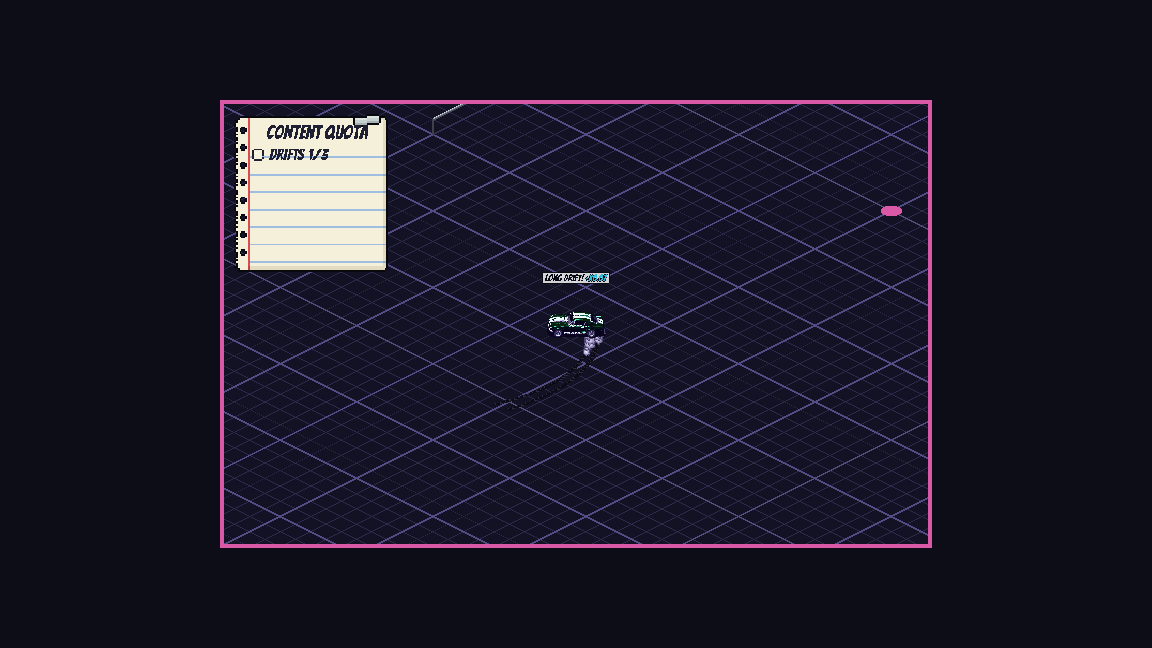
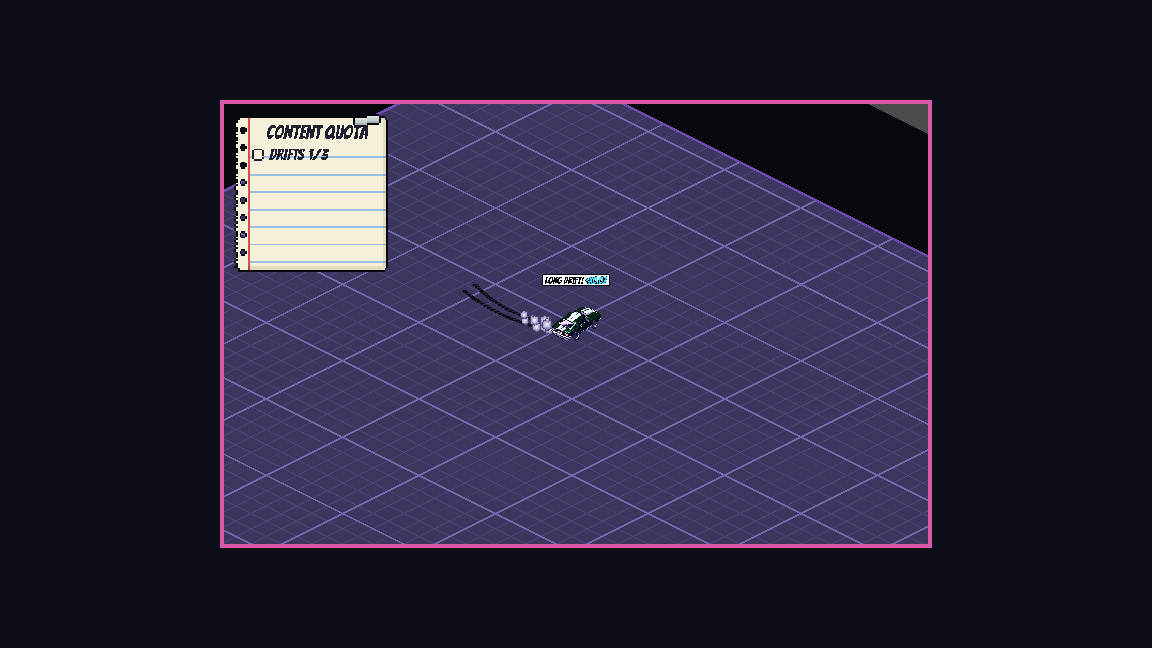
T-561: the practice session plays T-560's practice playground
PLAYGROUND_PATH points at data/level/practice_playground.json, start points by id
(LevelStartPoints), the level's own grid ground; the stand-in is removed. Tests drive all four
tricks on the real level; screenshots retaken.

Claude-Session: https://claude.ai/code/session_01N2d996YFpSovFyvGmo19CZ

diff --git a/game/docs/game-loop/practice-session.md b/game/docs/game-loop/practice-session.md
@@ -26,21 +26,21 @@ session.pause()                  # when the slide is left
 
 ## How it works
 
-- **The world** (`World` node) is built once from `layout_path` (`PLAYGROUND_PATH`): the map scene (`mvp_map.tscn`, no challenges, no alert signs) with its elevation layer (rooftops and ramps), the rails and their drawing, the car's shadow, and the car's drawing (`View`: the car sprite, drift smoke, boost, jump effect, rail sparks, the jump arrow, the trick popups and the camera), as `run.gd` builds them. A level with no painted `"ground"` hides the map's ground and draws `ground_grid.gd` under it, with the playground's edge outlined.
+- **The world** (`World` node) is built once from `layout_path` (`PLAYGROUND_PATH`): the map scene (`mvp_map.tscn`, no challenges, no alert signs) with its elevation layer (rooftops and ramps), the rails and their drawing, the car's shadow, and the car's drawing (`View`: the car sprite, drift smoke, boost, jump effect, rail sparks, the jump arrow, the trick popups and the camera), as `run.gd` builds them. The playground draws its own grid ground (its `"ground_style"`, T-560).
 - **Pausing** sets `World.process_mode` to disabled (which also takes the bodies out of the physics space, so a test steps the car only after `start()`). Never the tree's pause: the slide around the window keeps working.
 - **The combo:** a `RunState` (its process disabled, so the clock never runs and the run never ends) hears the car's tricks, airtime, grinds and crashes as in the run (`add_trick`, `add_airtime_trick`, `add_grind_trick`, `collision`); the trick popups follow it. Its own mission pack is unused.
 - **Counting:** `RunState.combo_trick` (what pays) is matched against `COUNTED[trick]`. Air spins count once per car step, so a landing that pays both an AIR 360! and an AIR 180! counts once. Each success calls the notebook tracker's `on_trick(GOAL_TRICK[trick])`.
 - **The notebook:** the real `MissionPage`, on its own `CanvasLayer` (layer 10), bound to a `RunMissions` started with `start_with([[{"trick": GOAL_TRICK[trick], "kind": "count", "amount": 3}]])`. Its goal line comes from the page's `goal_templates` (T-561), so the run's own mission texts are untouched. Scaled with `UiScale.keep(root, NOTEBOOK_BASE)`, 70% of the HUD's layout page, at `NOTEBOOK_POS`.
 - **The gift:** `PracticeOffers` (`scripts/run/practice_offers.gd`) is the real `PowerUpOffers` with two changes: it opens only through `offer_only(id)` (never from a mission) and pauses only the session (`pause_with`). The real `PowerUpScreen` shows it. `GIFT` says which practice opens with which power-up (the grind with Jump); it opens on the first `start()` after `setup`/`restart`.
-- **The car** is rebuilt by `reset_car()` (no drift, grind or jump left over) at `start_point()`: the level's `"practice_starts"[trick]` (`{x, y, heading}`, like `"spawn"`), else the level's spawn. Leaving the map's rectangle (plus `AREA_MARGIN`) resets it on the next frame.
+- **The car** is rebuilt by `reset_car()` (no drift, grind or jump left over) at `start_point()`: the level's start point with the trick's id (`LevelStartPoints.of(layout, trick)`: `drift`, `alt_drift`, `air_spin`, `grind`, T-560), else the level's spawn. Leaving the map's rectangle (plus `AREA_MARGIN`) resets it on the next frame.
 
-## Seams for T-560 (and T-559, now wired)
+## The level and the texts (T-560 and T-559, both wired)
 
-- **The playground (T-560):** `PLAYGROUND_PATH` is the stand-in `data/level/practice_stand_in.json` (a 100 x 100 square, a ramp up to a short rooftop, one rail at height 1, no painted ground) until T-560's level is in; then point it at that file. The start points are read from the level's `"practice_starts"` (`drift`, `alt_drift`, `air_spin`, `grind`), so T-560's level gives them there (or the session's `start_point()` is changed to where T-560 puts them).
+- **The playground (T-560, wired):** `PLAYGROUND_PATH` is `data/level/practice_playground.json` ([../level/practice-playground.md](../level/practice-playground.md)); each trick starts on its start point of the same id. The stand-in this ticket used before (`practice_stand_in.json`) is removed.
 - **The goal lines (T-559, wired):** `GOAL_TEXT_KEYS` reads each goal line from `data/tutorial_text.json`, `tutorial.goal.drift`, `.altdrift`, `.airspin` and `.grind` (T-559's keys), each a template with `{done}` and `{total}`, word for word. No player text is in the code: a missing key logs an error and gives an empty line.
 - **The falling box (T-563)** uses the same notebook: the goal's trick id is the car's own trick id (`extended_drift`, `alternate_drift`, `rail_grind`), except air spins, whose goal id is `air_spin` (two tricks); `trick_counted` gives the actual one.
 
 ## Tests and pictures
 
-- `tests/unit/run/test_practice_session.gd`: the scene (no enemies, clock or damage), the start points, counting for each trick and no other (and the third), a real drift and a real hop onto the rail, a real ramp takeoff, the notebook's line and count, the Jump gift, pause, focus, R and leaving the playground.
+- `tests/unit/run/test_practice_session.gd`: the scene (no enemies, clock or damage), the start points, counting for each trick and no other (and the third), on the real playground a drift, an alt drift, an air spin and a grind each driven from its own start point and counted, the notebook's line and count, the Jump gift, pause, focus, R and leaving the playground.
 - `tests/fixtures/practice_session_demo.tscn`: the session in a 704 x 440 window on a dark page; `PRACTICE_SHOT` = `drift`, `alt_drift`, `air_spin`, `grind_gift`, `grind` or `done`. `PRACTICE_SHOT=grind_gift bash game/tools/screenshot.sh res://tests/fixtures/practice_session_demo.tscn out.png 60`.

diff --git a/docs/game-loop-architecture.md b/docs/game-loop-architecture.md
@@ -238,10 +238,10 @@ The run keeps its missions and the car's driving power-ups (Decisions, "Mission 
 
 The engine of the tutorial's practice windows (HUD and menus, Decisions, "Interactive tutorial slides"; how to use it: [game/docs/game-loop/practice-session.md](../game/docs/game-loop/practice-session.md)). Each trick slide (T-562) embeds one in its window. It is a small live run with one goal, not a run: it is never part of the screen flow below and never ends.
 
-- **What is in it:** the practice playground (Level design, Decisions, "The practice playground"; until T-560's level is in, a stand-in with one ramp and one rail on the drift prototype's grid ground), the real car with its real driving, combo, trick popups, drift marks and smoke, and the real mission notebook inside the window. **Nothing else:** no enemies, kaiju, clock, damage, gift packs, weapons, HUD or sounds.
+- **What is in it:** the practice playground (Level design, Decisions, "The practice playground", T-560's level, on its grid ground), the real car with its real driving, combo, trick popups, drift marks and smoke, and the real mission notebook inside the window. **Nothing else:** no enemies, kaiju, clock, damage, gift packs, weapons, HUD or sounds.
 - **One trick, 3 times:** the slide sets it to the drift, the alt drift, air spins or the grind. The notebook shows one goal, the trick 3 times ("x/3"), and the count. A trick counts when it pays in the combo, the moment its popup shows: the drift is LONG DRIFT! (one unbroken drift of 1 s or more, counted when it ends), the alt drift ALT DRIFT!, air spins AIR 180! or AIR 360! (one landing counts once, also a 540 that pays both), the grind GRIND!. Nothing else counts. On the third the slide is told, and shows its success message over the window; the count then stays at 3 and the player can keep driving (proposals).
 - **The grind's Jump gift:** the grind practice starts by offering the real power-up gift overlay with one card, Jump; taking it gives the car Jump. The practice waits behind it.
-- **Start points and resets:** the car starts on the playground's start point for its trick. It goes back there when it leaves the playground, or when the player presses **R** (a proposal); the count stays.
+- **Start points and resets:** the car starts on the playground's start point for its trick (one per trick slide, T-560). It goes back there when it leaves the playground, or when the player presses **R** (a proposal); the count stays.
 - **Keys and pausing:** the car reads the keyboard only while its window has focus; without focus it coasts as with no key held. The practice runs only while its slide shows it, and pauses only itself, never the game around it, so the slide's arrows and buttons keep working (also while the Jump gift is open).
 - **Proposals for the playtest:** the notebook drawn about 1.4 times the run's size for the window, in its top left corner; the camera frames the car as the run does at the window's height.
 

diff --git a/tasks/T-561-practice-session.md b/tasks/T-561-practice-session.md
@@ -146,3 +146,31 @@ Only for art and text tasks: one entry per round of the style loop (`tasks/READM
 **Docs:** `game/docs/game-loop/practice-session.md` now describes the wired T-559 keys.
 
 **Still open for T-562:** `tutorial.success` ("Content secured!") and `tutorial.grind_hint` are T-562's to show. The session only sends `completed` and `gift_opened`.
+
+### Game Loop Agent, 2026-11-07: T-560's playground wired
+
+**Level:**
+- `PLAYGROUND_PATH` now points to `res://data/level/practice_playground.json` (T-560, merged into this branch).
+- The start points come from the level's `start_points`, read with `LevelStartPoints.of(layout, trick)`. The ids are `drift`, `alt_drift`, `air_spin` and `grind`; if one is missing, the car starts at the level's spawn.
+- The level draws its own grid ground (`ground_style`), so the session's grid and edge drawing are removed.
+- The stand-in `practice_stand_in.json` is removed, since nothing reads it now.
+
+**All four tricks count on the real level:** each is driven with scripted keys from its own start point, as in T-560's drive.
+- Drift: W + A, then let go, counts 1 LONG DRIFT!.
+- Alt drift: forward drift, release, backward drift, counts 1 ALT DRIFT!.
+- Air spin: W to the jump ramp, A in the air, counts exactly 1 (AIR 180! or AIR 360!) for the one landing.
+- Grind: after taking the Jump gift, W to the ramp with Space held in the air. The car catches a rail, and the GRIND! counts 1 when it ends.
+
+**Tests:**
+- The tests now use the real level: area and rail counts come from the level, plus its grid style, its start points, and the spawn fallback.
+- The stand-in hop and ramp tests are replaced by the four real-drive tests above.
+- Results, run in the foreground, one at a time:
+  - test_practice_session: 25/25 passed. Run together with T-560's test_practice_playground (selected by `test_practice_`): 34/34 passed, 208 asserts.
+  - game/tools Python set: 1043 tests, OK (4 skipped).
+
+**Screenshots:** retaken on the real playground in `art-archive/T-561/screenshots/` (same names). The fixture now steps the car itself, from each start point, and freezes it for the shot.
+- practice_air_spin.png: the car in the air off the jump ramp, "AIR SPINS 1/3".
+- practice_grind.png: the car on a rail with sparks.
+- practice_air_spin_later.png is removed, since the main air-spin shot already shows the car in the air.
+
+**Docs:** `game/docs/game-loop/practice-session.md` and docs/game-loop-architecture.md (Content) now name the real level and its start points.
